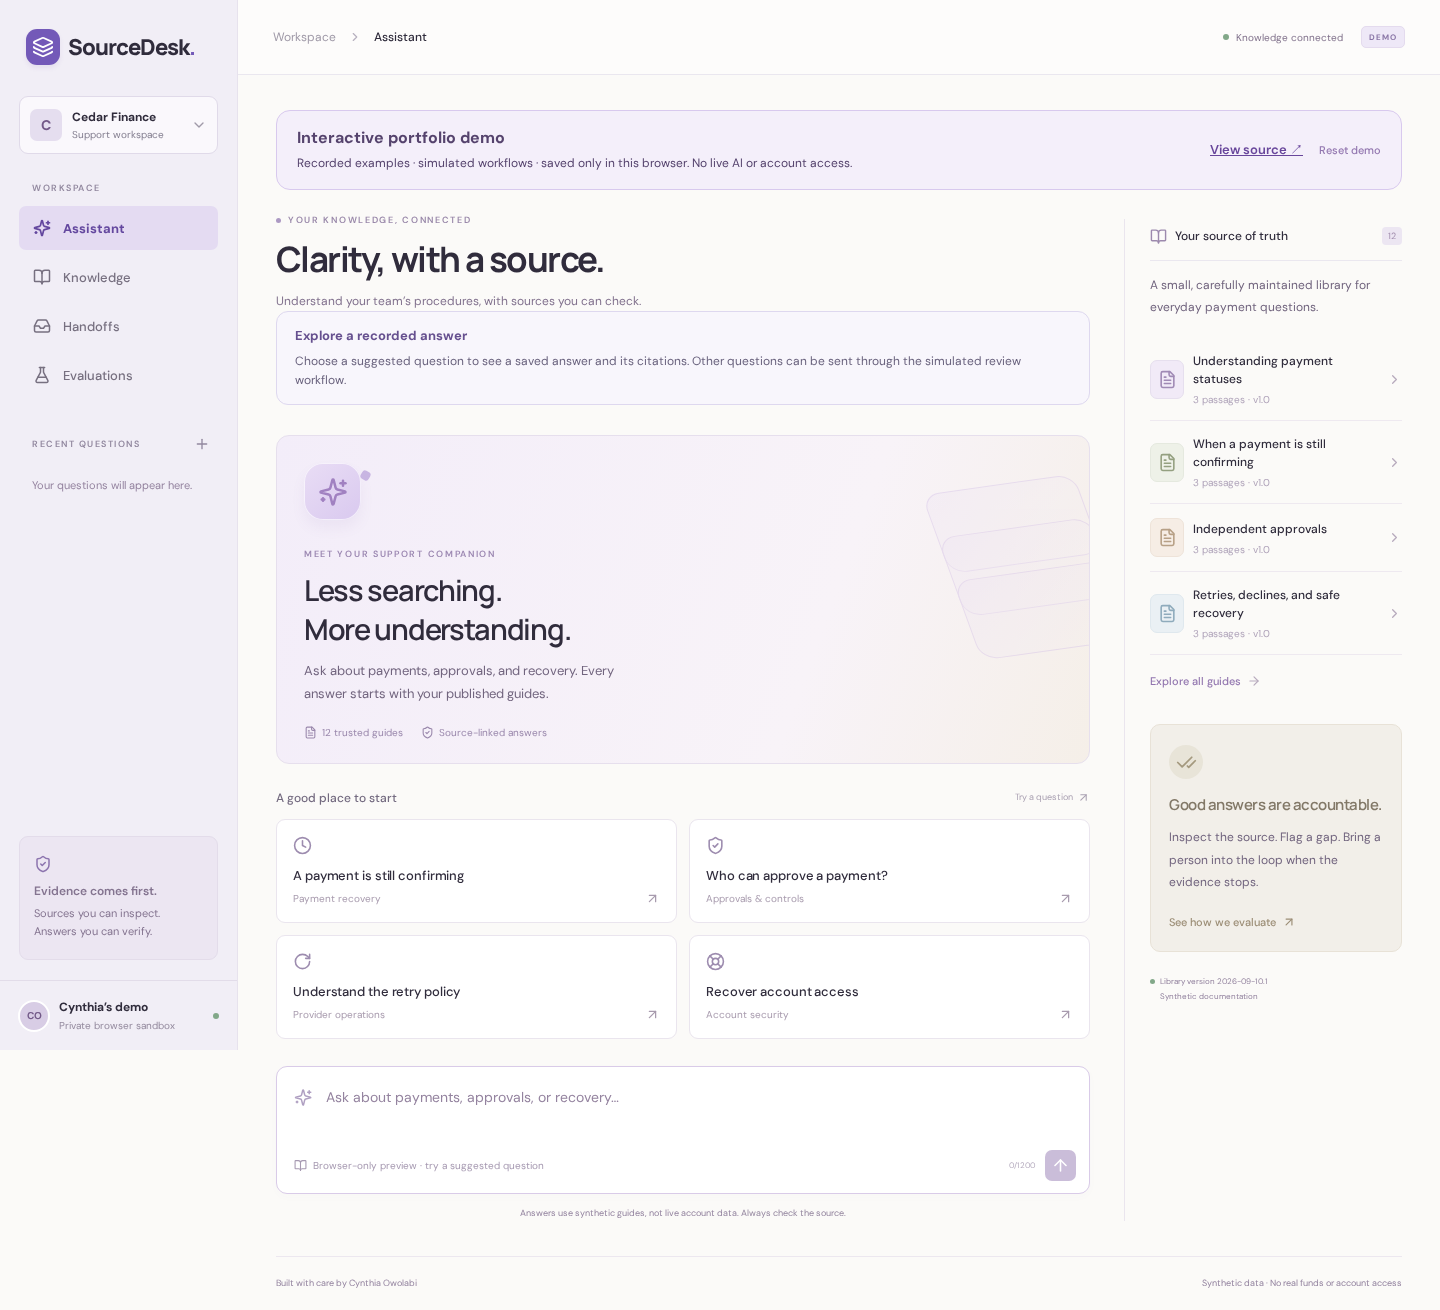
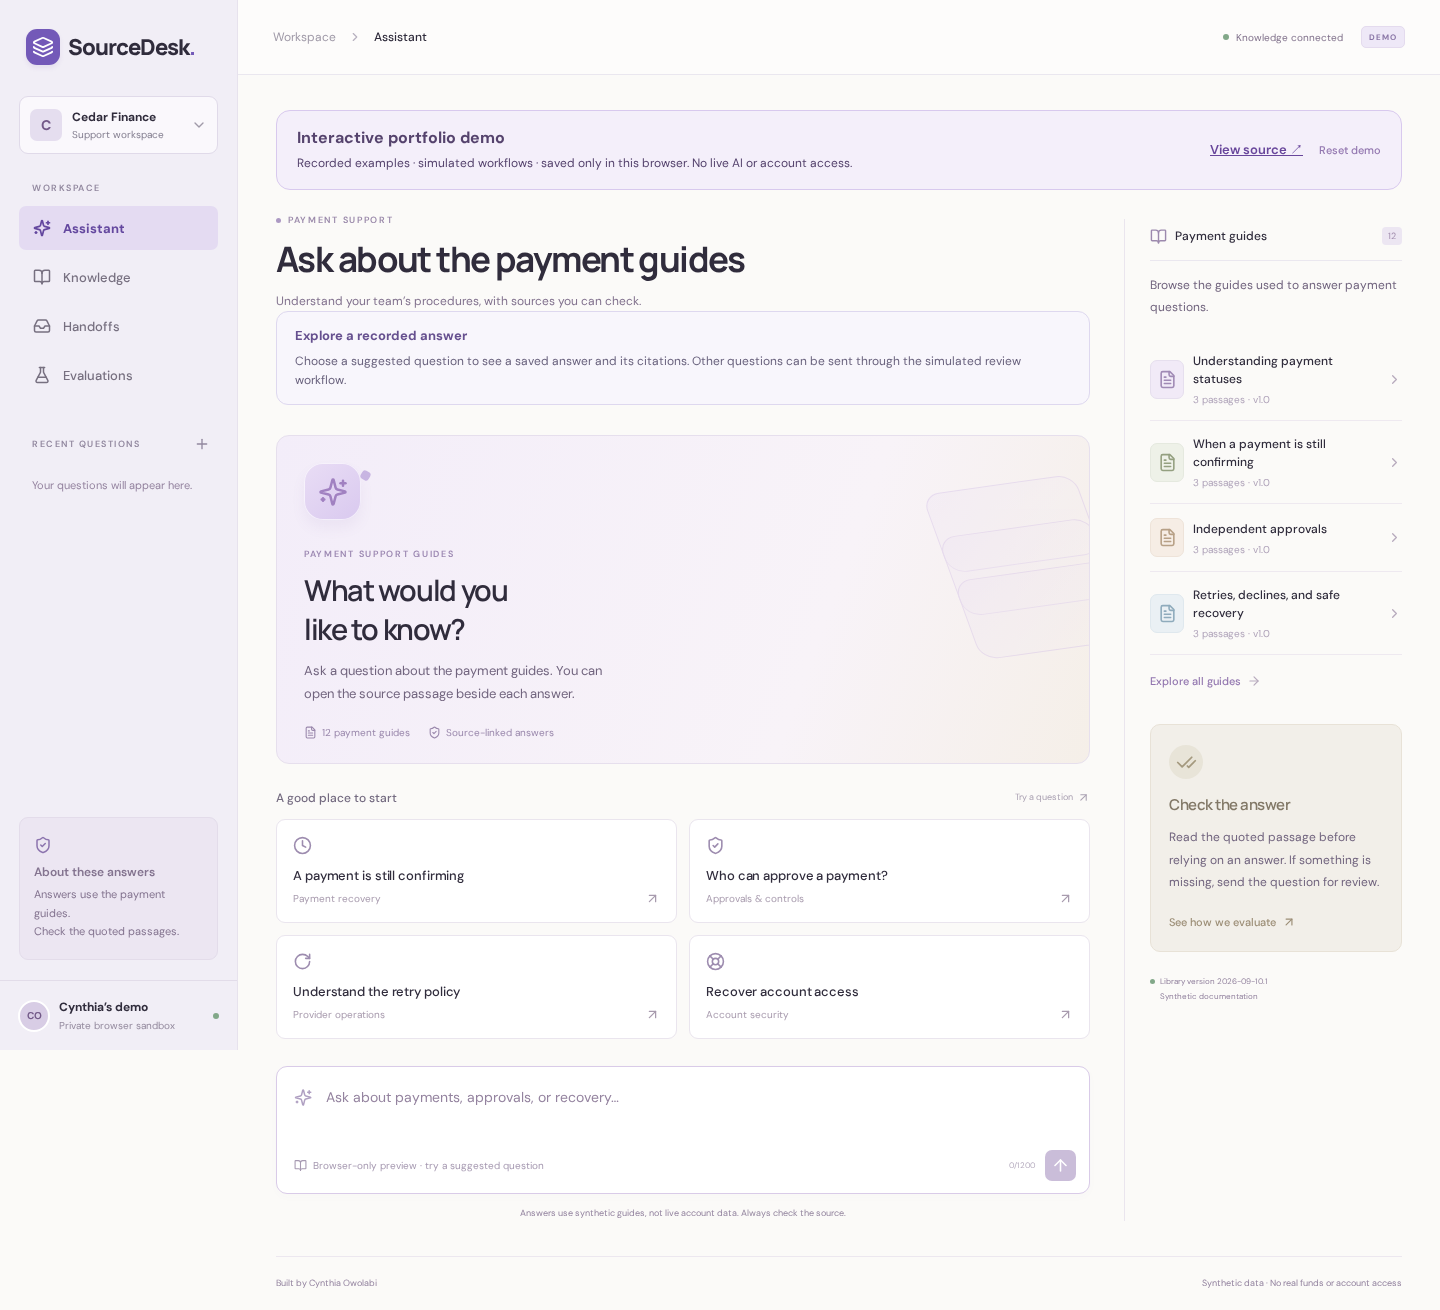
Rewrite public copy in a natural voice

diff --git a/src/main.tsx b/src/main.tsx
@@ -382,11 +382,9 @@ function App() {
         <div className="sidebar-bottom">
           <div className="trust-note">
             <ShieldCheck size={18} />
-            <strong>Evidence comes first.</strong>
+            <strong>About these answers</strong>
             <p>
-              Sources you can inspect.
-              <br />
-              Answers you can verify.
+              Answers use the payment guides. <br /> Check the quoted passages.
             </p>
           </div>
           <div className="profile">
@@ -485,14 +483,14 @@ function App() {
             <div className="assistant-grid">
               <section className="conversation">
                 <div className="section-kicker">
-                  <span className="purple-dot" /> YOUR KNOWLEDGE, CONNECTED
+                  <span className="purple-dot" /> PAYMENT SUPPORT
                 </div>
                 <div className="assistant-heading">
                   <div>
                     <h1>
                       {answer
                         ? "A little more clarity."
-                        : "Clarity, with a source."}
+                        : "Ask about the payment guides"}
                     </h1>
                     <p>
                       Understand your team’s procedures, with sources you can
@@ -536,22 +534,18 @@ function App() {
                         <Sparkles size={30} />
                         <span className="orb-dot" />
                       </div>
-                      <span className="mini-label">
-                        MEET YOUR SUPPORT COMPANION
-                      </span>
+                      <span className="mini-label">PAYMENT SUPPORT GUIDES</span>
                       <h2>
-                        Less searching.
-                        <br />
-                        More understanding.
+                        What would you <br /> like to know?
                       </h2>
                       <p>
-                        Ask about payments, approvals, and recovery. Every
-                        answer starts with your published guides.
+                        Ask a question about the payment guides. You can open
+                        the source passage beside each answer.
                       </p>
                       <div className="welcome-tags">
                         <span>
                           <FileText size={13} />
-                          {data.documentCount} trusted guides
+                          {data.documentCount} payment guides
                         </span>
                         <span>
                           <ShieldCheck size={13} />
@@ -910,9 +904,7 @@ function App() {
                 <div className="rail-heading">
                   <div>
                     <BookOpen size={17} />
-                    <h2>
-                      {answer ? "Answer evidence" : "Your source of truth"}
-                    </h2>
+                    <h2>{answer ? "Answer evidence" : "Payment guides"}</h2>
                   </div>
                   <span>
                     {answer ? answer.evidence.length : data.documentCount}
@@ -921,7 +913,7 @@ function App() {
                 <p className="rail-intro">
                   {answer
                     ? "Open a passage to see the context behind this response."
-                    : "A small, carefully maintained library for everyday payment questions."}
+                    : "Browse the guides used to answer payment questions."}
                 </p>
                 {answer ? (
                   <div className="evidence-list">
@@ -977,10 +969,10 @@ function App() {
                   <div className="quality-symbol">
                     <CheckCheck size={21} />
                   </div>
-                  <h3>Good answers are accountable.</h3>
+                  <h3>Check the answer</h3>
                   <p>
-                    Inspect the source. Flag a gap. Bring a person into the loop
-                    when the evidence stops.
+                    Read the quoted passage before relying on an answer. If
+                    something is missing, send the question for review.
                   </p>
                   <button
                     className="text-button"
@@ -1003,7 +995,7 @@ function App() {
               <PageHeading
                 kicker="THE PUBLISHED LIBRARY"
                 title="Knowledge, kept close."
-                subtitle="Inspect the guides that power every answer. No hidden sources."
+                subtitle="Browse the documents the assistant searches."
                 aside={
                   <span className="soft-label">
                     <BookOpen size={15} />
@@ -1083,7 +1075,7 @@ function App() {
               <PageHeading
                 kicker="A PERSON IN THE LOOP"
                 title="Careful handoffs."
-                subtitle="The question, context, and evidence. Ready for a human decision."
+                subtitle="Review questions the assistant could not answer."
                 aside={
                   <span className="soft-label">
                     <Inbox size={15} />
@@ -1169,7 +1161,7 @@ function App() {
               <PageHeading
                 kicker="QUALITY YOU CAN INSPECT"
                 title="Measured, not assumed."
-                subtitle="A repeatable test suite for retrieval, citations, and knowing when to stop."
+                subtitle="Check how the assistant handles the saved test questions."
                 aside={
                   <button
                     className="button primary"
@@ -1286,7 +1278,7 @@ function App() {
                   </div>
                   <section className="panel evaluation-table">
                     <div className="panel-title">
-                      <h2>Every case, in the open</h2>
+                      <h2>Results for each question</h2>
                       <label>
                         <span className="sr-only">Filter evaluation cases</span>
                         <select
@@ -1416,7 +1408,7 @@ function App() {
             </>
           )}
           <footer className="app-footer">
-            <span>Built with care by Cynthia Owolabi</span>
+            <span>Built by Cynthia Owolabi</span>
             <span>Synthetic data · No real funds or account access</span>
           </footer>
         </main>

diff --git a/tests/browser/workflow.spec.ts b/tests/browser/workflow.spec.ts
@@ -6,7 +6,7 @@ test("question, citations, feedback, and persistent history work", async ({
   page.on("pageerror", (e) => errors.push(e.message));
   await page.goto("/");
   await expect(
-    page.getByRole("heading", { name: "Clarity, with a source." }),
+    page.getByRole("heading", { name: "Ask about the payment guides" }),
   ).toBeVisible();
   await page
     .getByRole("button", { name: /A payment is still confirming/ })
@@ -102,7 +102,7 @@ test("desktop and mobile layouts stay usable and save visual evidence", async ({
   await page.setViewportSize({ width: 1440, height: 1050 });
   await page.goto("/");
   await expect(
-    page.getByRole("heading", { name: "Clarity, with a source." }),
+    page.getByRole("heading", { name: "Ask about the payment guides" }),
   ).toBeVisible();
   await page.screenshot({ path: "docs/desktop.png", fullPage: true });
   await page

diff --git a/index.html b/index.html
@@ -6,9 +6,9 @@
     <meta name="theme-color" content="#6d52bd" />
     <meta
       name="description"
-      content="SourceDesk — payment support with evidence, careful handoffs, and measurable quality."
+      content="Ask questions about payment guides and check the passages behind each answer. A project by Cynthia Owolabi."
     />
-    <title>SourceDesk · Answers with evidence</title>
+    <title>SourceDesk | Payment support guides</title>
   </head>
   <body>
     <div id="root"></div>

diff --git a/README.md b/README.md
@@ -1,8 +1,8 @@
 # SourceDesk
 
-**Payment support with evidence, careful handoffs, and measurable quality.**
+Ask a question about payments and read the guide behind the answer.
 
-SourceDesk is a support workspace by Cynthia Owolabi. Ask a question, inspect the passages behind an answer, flag a gap, and carry unresolved questions into a review queue. It is the applied-AI companion to [LedgerDesk](https://github.com/adebolaowolabi32/payment-operations-console), using original synthetic payment documentation.
+I built SourceDesk around 12 fictional payment guides. It retrieves relevant passages and can use GPT to write an answer with quotes you can check. If a question needs account data or the guides don’t cover it, the app sends it to review. The payment scenarios relate to [LedgerDesk](https://github.com/adebolaowolabi32/payment-operations-console).
 
 ![SourceDesk portfolio preview](docs/portfolio-desktop.png)
 
@@ -12,7 +12,7 @@ SourceDesk is a support workspace by Cynthia Owolabi. Ask a question, inspect th
 
 The GitHub Pages preview runs entirely in your browser: try suggested questions, inspect recorded answers and citations, give feedback, and simulate a review case. Examples use synthetic data. The evaluation screen displays a saved regression report. Preview history is stored only in this browser and can be cleared with **Reset demo**. It does not call OpenAI or connect to a backend/database.
 
-The repository also contains the runnable backend and real GPT/pgvector implementation, with tests and measured live smoke results. These are engineering evidence for this portfolio project; no production service is operated.
+To try live generation, run the backend locally with GPT and pgvector. The repository includes setup instructions and saved results from a small live test. The public site uses recorded answers.
 
 ## Install and run
 
@@ -82,7 +82,7 @@ npm run dev
 
 Index generations include the corpus content hash and embedding configuration. Re-indexing an unchanged corpus makes no embedding calls. Failed indexing publishes no partial generation. Rebuild after changing guides or embedding model, then restart the app. Startup and `/api/ready` check index completeness.
 
-Controlled provider tests and real PostgreSQL tests pass. After funding the API account, live indexing stored **30 passages** and the five-case live smoke check passed **5/5**. A review of the first run found wording that implied knowledge of a specific payment; the prompt was tightened and all five cases passed again. Both [initial](docs/live-evaluation-initial.json) and [final](docs/live-evaluation-report.json) results are retained. Combined indexing and both runs used approximately **$0.00839** at verified standard token rates (caching discounts ignored), below the user's $1 test limit. This is usage-based estimation, not an invoice or a general accuracy claim.
+Controlled provider tests and real PostgreSQL tests pass. Live indexing stored **30 passages** and the five-case live smoke check passed **5/5**. A review of the first run found wording that implied knowledge of a specific payment; the prompt was tightened and all five cases passed again. Both [initial](docs/live-evaluation-initial.json) and [final](docs/live-evaluation-report.json) results are retained. Combined indexing and both runs used approximately **$0.00839** at verified standard token rates (caching discounts ignored), below the $1 budget set for these tests. This is usage-based estimation, not an invoice or a general accuracy claim.
 
 `npm run evaluate:live` indexes if needed and uses a persistent, conservative $0.50 request budget in `data/live-test-budget.json`, covering retries within this serial test runner. It permits only the two priced models, limits output, and reserves a doubled byte-based input bound before sending each request. Failed requests keep their reservation. Run only one live test runner at a time; do not delete its ledger to bypass a budget. This test budget does not limit interactive app usage or the standalone indexing command.
 
@@ -122,7 +122,7 @@ Backend tests cover exact citations, abstention, quarantined instruction-bearing
 - [Evaluation methodology](docs/EVALUATION.md)
 - [Installation](docs/INSTALLATION.md)
 
-For a hosted team product, the next steps are real identity and organization membership, reviewer assignment, a larger independently held-out corpus, operational monitoring, and independently measured model quality. This repository intentionally contains only synthetic support data.
+Before using this with a support team, I would add sign-in and reviewer assignment. Answer quality also needs testing on questions written by someone who has not seen the implementation. All support data in this repository is fictional.
 
 ## Publish the static preview
 
@@ -138,6 +138,6 @@ The preview uses checked-in synthetic fixtures in `src/demo-fixtures.json`. To r
 
 ## Author
 
-[Cynthia Owolabi](https://github.com/adebolaowolabi32), Senior Full Stack Engineer with experience across backend, frontend, platforms and applied AI.
+Built by [Cynthia Owolabi](https://github.com/adebolaowolabi32).
 
 [Portfolio and experience](https://adebolaowolabi32.github.io/) · [Current CVs](https://adebolaowolabi32.github.io/resume.html)
